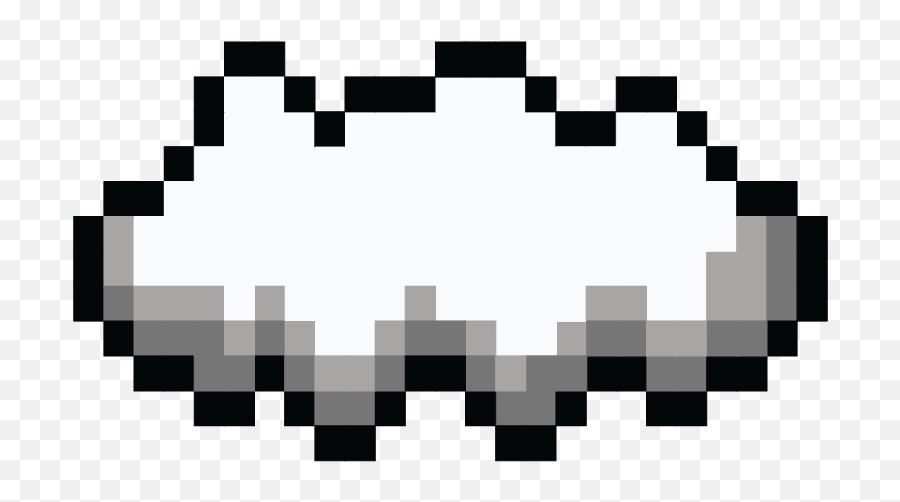
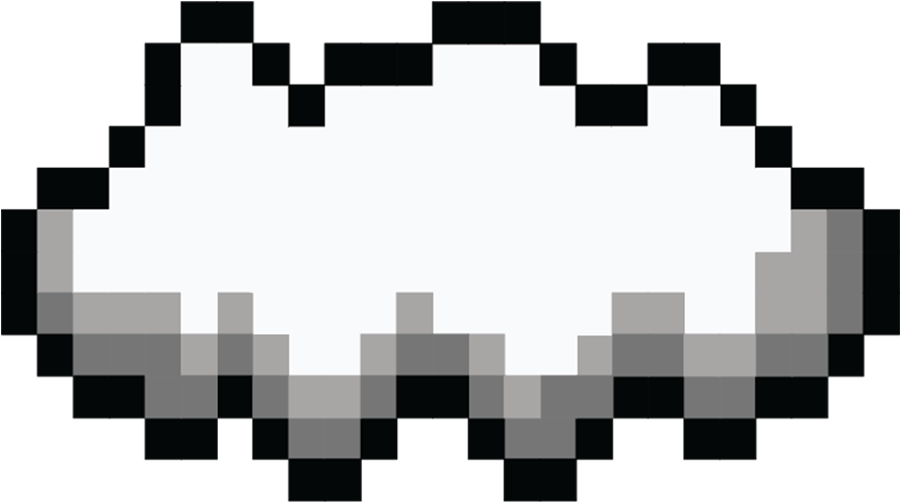
[Feature]: reanimated blue rec with cloud graphic / scaled

diff --git a/main.py b/main.py
@@ -98,8 +98,9 @@ player_y = HEIGHT - player_height
 betty_image = pygame.image.load('graphics/betty.png')
 spaceimage = pygame.image.load('graphics/spaceimage.png')
 space_image = pygame.image.load('graphics/spaceimage.png')
-cloudimage = pygame.image.load('graphics/cloudimage.png')
+cloud_image = pygame.image.load('graphics/cloudimage.png')
 betty_image = pygame.transform.scale(betty_image, (100, 100))
+cloud_image = pygame.transform.scale(cloud_image, (cloud_width, cloud_height))
 
 # Start CloudDodger Game Loop
 menu = True
@@ -136,8 +137,6 @@ player_x = WIDTH // 2 - player_width // 2
 player_y = HEIGHT - player_height
 
 # Collisions between player and clouds
-
-
 def check_collision(player, cloud):
     player_hitbox = pygame.Rect(player[0] + player_hitbox_offset_x // 2, player[1] + player_hitbox_offset_y // 2, player_hitbox_width, player_hitbox_height)
     cloud_rect = pygame.Rect(cloud[0], cloud[1], cloud_width, cloud_height)
@@ -170,14 +169,12 @@ while running:
     elapsed_time = pygame.time.get_ticks() - timer_start
     draw_timer(screen, elapsed_time, WIDTH - 180, 10, font, RED)
 
-
     # Health Percentage Font
     percentage_font = pygame.font.Font(None, 32)
 
-    draw_health_bar(screen, player_health, 10, 10, 200,
-                    20, (0, 255, 0))  # Draw health bar
+    draw_health_bar(screen, player_health, 10, 10, 200, 20, (0, 255, 0))  # Draw health bar
     draw_health_percentage(screen, player_health, 10 + 200 // 2.2 - 15, 10, percentage_font, (0, 0, 0))
-     # Health bar drawn + outline
+    # Health bar drawn + outline
 
     # Move and draw clouds
     for cloud in cloud_list:
@@ -186,13 +183,7 @@ while running:
             cloud[0] = random.randint(0, WIDTH - cloud_width)
             cloud[1] = random.randint(-500, 0)
 
-        pygame.draw.rect(
-            screen,
-            BLUE,
-            (cloud[0],
-             cloud[1],
-                cloud_width,
-                cloud_height))
+        screen.blit(cloud_image, (cloud[0], cloud[1]))
 
     # Check for collision
     player_rect = pygame.Rect(player_x, player_y, player_width, player_height)
